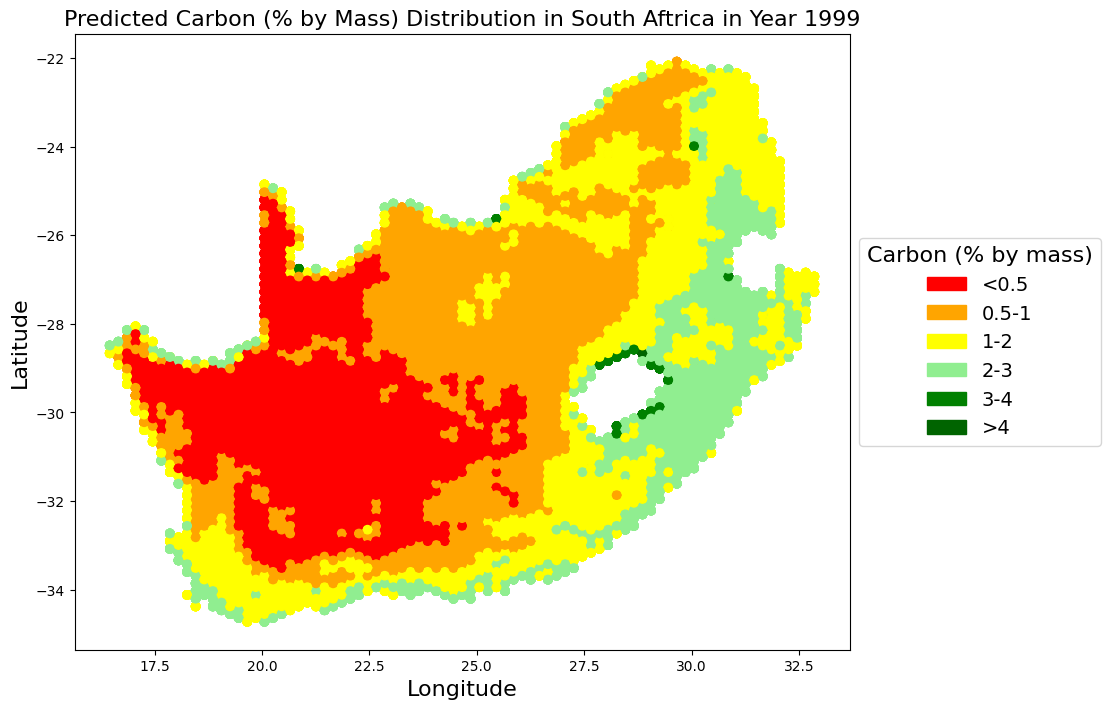
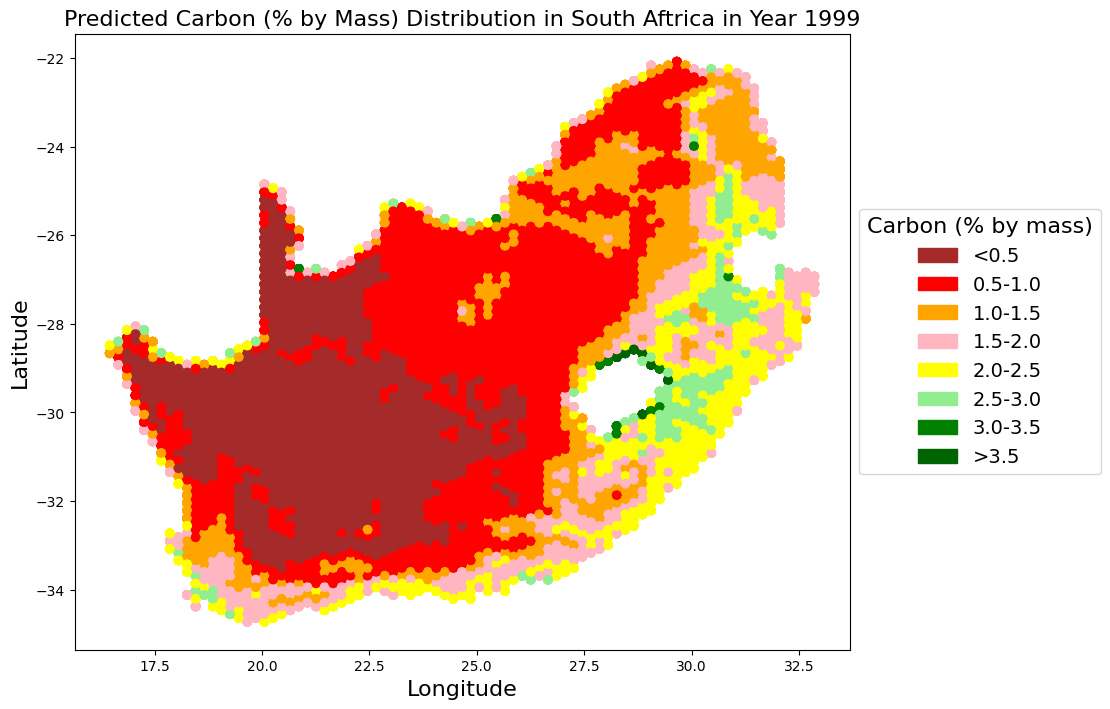
RF plots

Changed region(s): [[0.0919, 0.0621, 0.7351, 0.8999], [0.7658, 0.3103, 1.0, 0.6827]]

diff --git a/Maps/plot_utils.py b/Maps/plot_utils.py
@@ -19,9 +19,10 @@ class plot_utils:
     def get_carbon_mapping():
         carbon_mapping = grid_utils.get_carbon_mapping()
         # Create boundaries and colors for the colormap
-        boundaries = [0, 0.5, 1, 2, 3, 4, 5]
-        colors = [carbon_mapping["<0.5"], carbon_mapping["0.5-1"], carbon_mapping["1-2"],
-                carbon_mapping["2-3"], carbon_mapping["3-4"], carbon_mapping[">4"]]
+        boundaries = [0, 0.5, 1.0, 1.5, 2.0, 2.5, 3.0, 3.5, 4.0]
+        colors = [carbon_mapping["<0.5"], carbon_mapping["0.5-1.0"], carbon_mapping["1.0-1.5"],
+                carbon_mapping["1.5-2.0"], carbon_mapping["2.0-2.5"], carbon_mapping["2.5-3.0"], 
+                carbon_mapping["3.0-3.5"], carbon_mapping[">3.5"]]
         
         # Create the colormap and norm
         cmap = mcolors.ListedColormap(colors)

diff --git a/DataProcessing/grid_utils.py b/DataProcessing/grid_utils.py
@@ -44,12 +44,14 @@ class grid_utils:
     @staticmethod
     def get_carbon_mapping():
         carbon_mapping = {
-            "<0.5": "red",
-            "0.5-1": "orange",
-            "1-2": "yellow",
-            "2-3": "lightgreen",
-            "3-4": "green",
-            ">4": "darkgreen"
+            "<0.5": "brown",
+            "0.5-1.0": "red",
+            "1.0-1.5": "orange",
+            "1.5-2.0": "lightpink",
+            "2.0-2.5": "yellow",
+            "2.5-3.0": "lightgreen",
+            "3.0-3.5": "green",
+            ">3.5": "darkgreen"
         }
         return carbon_mapping
 

diff --git a/Maps/maps_utils.py b/Maps/maps_utils.py
@@ -100,4 +100,4 @@ class map_utils:
                pred = pd.read_csv(predictions_path)
                plot_utils.plot_predictions(year=year, predictions=pred, map_output_path=output_path)
 
-map_utils.plot_predicted_maps()
+#map_utils.plot_predicted_maps()
